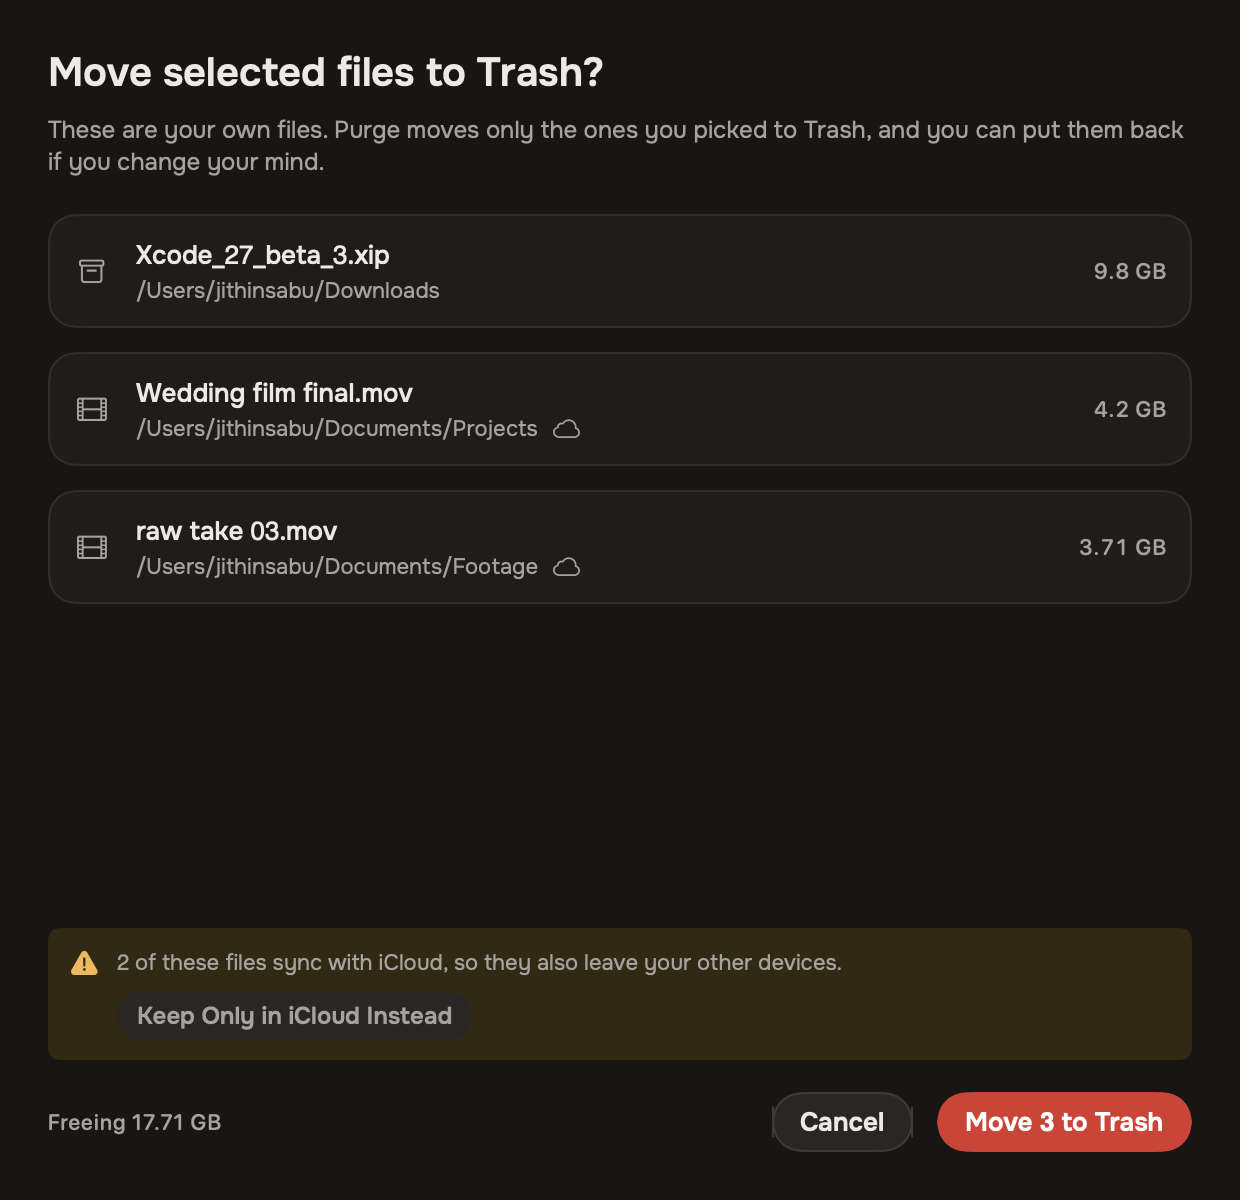
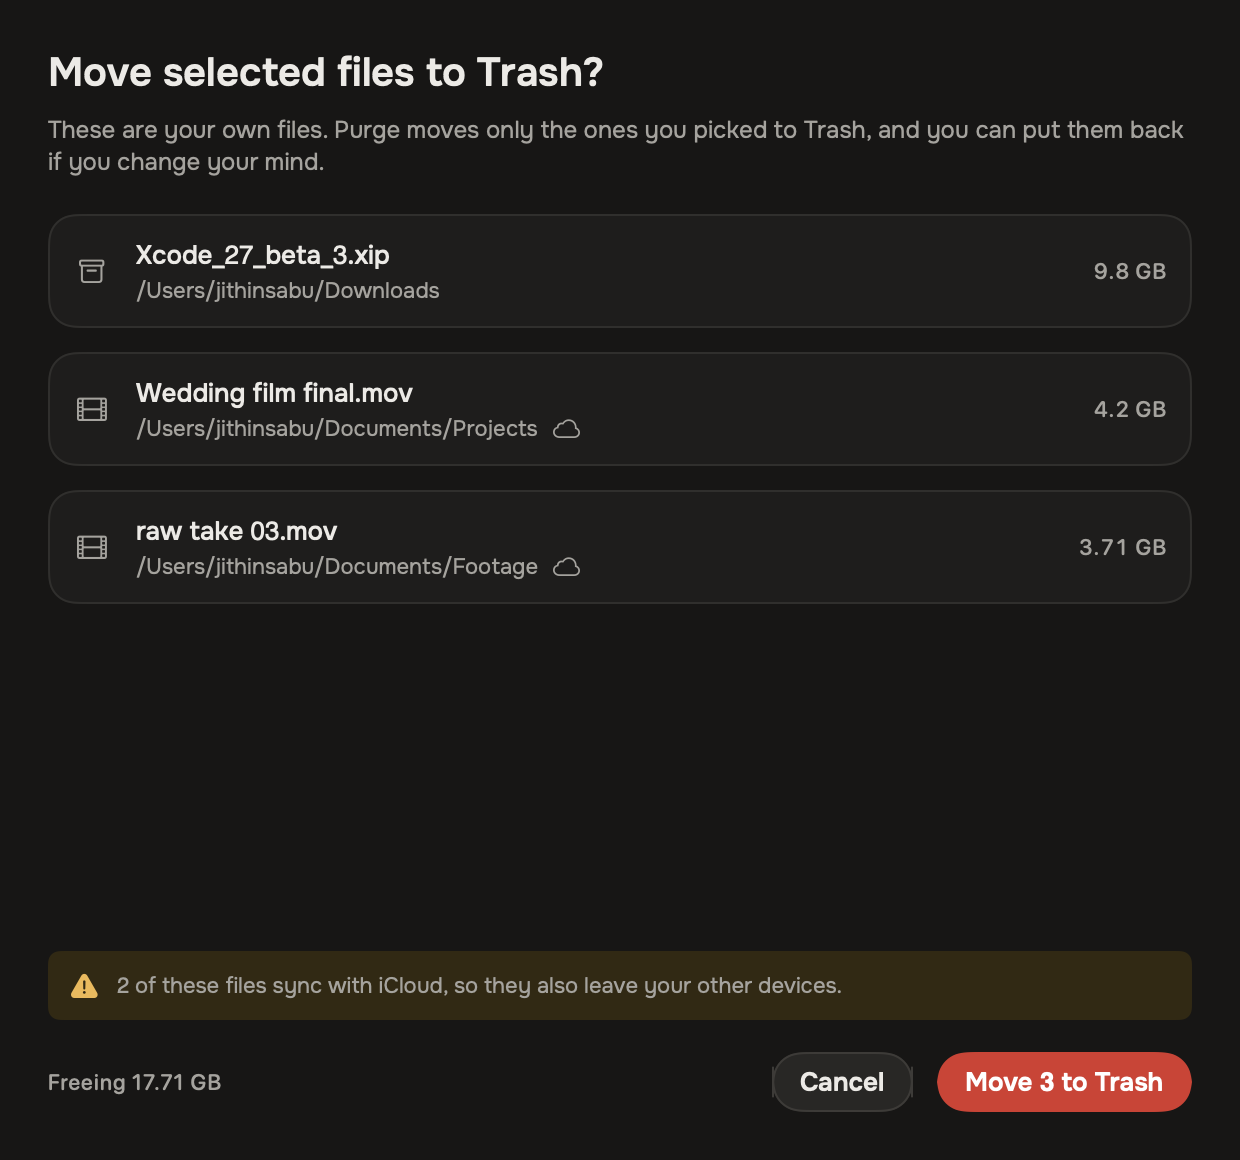
fix: drop the Keep Only in iCloud button from the trash warning (#106)

diff --git a/purge/Views/LargeFilesView.swift b/purge/Views/LargeFilesView.swift
@@ -1435,9 +1435,6 @@ struct LargeFileDeletionConfirmSheet: View {
     /// which copy survives — issue #17 is explicit that this is the user's call —
     /// so this only states plainly what the current selection does.
     var fullyConsumedDuplicateGroups: [DuplicateGroup] = []
-    /// Set when some of these files can be kept only in iCloud instead (#106).
-    /// The warning then carries a button for that, not a sentence about it.
-    var onKeepOnlyInICloud: (() -> Void)?
     let onCancel: () -> Void
     let onConfirm: () -> Void
 
@@ -1497,17 +1494,7 @@ struct LargeFileDeletionConfirmSheet: View {
             }
 
             if let iCloudWarning {
-                LargeFileCautionNote {
-                    VStack(alignment: .leading, spacing: AppStyle.Spacing.xSmall) {
-                        Text(iCloudWarning)
-                        // The other way to get the space back, offered where the
-                        // user is about to take the drastic one (#106).
-                        if let onKeepOnlyInICloud {
-                            Button(String(localized: "Keep Only in iCloud Instead"), action: onKeepOnlyInICloud)
-                                .buttonStyle(.purge(.soft, size: .small))
-                        }
-                    }
-                }
+                LargeFileCautionNote { Text(iCloudWarning) }
             }
 
             HStack(spacing: AppStyle.Spacing.small) {

diff --git a/PurgeTests/ICloudDownloadTests.swift b/PurgeTests/ICloudDownloadTests.swift
@@ -470,29 +470,6 @@ struct RemoveDownloadStoreTests {
         #expect(store.pendingRemoveDownload == nil)
     }
 
-    /// The trash sheet's button closes it and opens Keep Only in iCloud for the
-    /// same selection, once the first sheet has gone.
-    @Test func theTrashSheetHandsOverToKeepOnlyInICloud() async throws {
-        let scans = FakeScans()
-        scans.hasAccess = true
-        defer { scans.cleanUp() }
-        let store = scans.makeStore()
-        let base = "/tmp/purge-106-\(UUID().uuidString)"
-        let local = row("\(base)/Documents/local.mov", synced: false, removable: false)
-        let synced = row("\(base)/Documents/synced.mov", synced: true, removable: true)
-        store.largeFiles = [local, synced]
-        store.setAllLargeFilesSelected(true, ids: [local.id, synced.id])
-        store.presentLargeFileDeletionSheet()
-        #expect(store.showLargeFileDeletionSheet)
-
-        store.switchFromTrashToKeepOnlyInICloud()
-        #expect(!store.showLargeFileDeletionSheet)
-        #expect(store.pendingRemoveDownload == nil)
-        try await Task.sleep(for: .milliseconds(600))
-        #expect(store.pendingRemoveDownload?.files.map(\.id) == [synced.id])
-        #expect(store.pendingRemoveDownload?.localOnlyCount == 1)
-    }
-
     @Test func noButtonWithoutARemovableFile() {
         let scans = FakeScans()
         scans.hasAccess = true

diff --git a/purge/Services/PurgeStore.swift b/purge/Services/PurgeStore.swift
@@ -1892,16 +1892,6 @@ final class PurgeStore: ObservableObject {
         )
     }
 
-    /// From the trash sheet's iCloud warning: close it and open Keep Only in
-    /// iCloud for the same selection. The second sheet waits for the first to
-    /// finish closing, since a sheet can't open while another is leaving.
-    func switchFromTrashToKeepOnlyInICloud() {
-        showLargeFileDeletionSheet = false
-        DispatchQueue.main.asyncAfter(deadline: .now() + 0.35) { [weak self] in
-            self?.requestRemoveDownloads()
-        }
-    }
-
     func dismissRemoveDownloads() {
         pendingRemoveDownload = nil
     }

diff --git a/purge/ContentView.swift b/purge/ContentView.swift
@@ -100,9 +100,6 @@ struct ContentView: View {
             LargeFileDeletionConfirmSheet(
                 files: store.selectedTrashableLargeFiles,
                 fullyConsumedDuplicateGroups: store.duplicateGroupsFullyConsumedBySelection,
-                onKeepOnlyInICloud: store.selectedRemovableDownloads.isEmpty
-                    ? nil
-                    : { store.switchFromTrashToKeepOnlyInICloud() },
                 onCancel: { store.dismissLargeFileDeletionSheet() },
                 onConfirm: { Task { await store.confirmLargeFileDeletion() } }
             )
